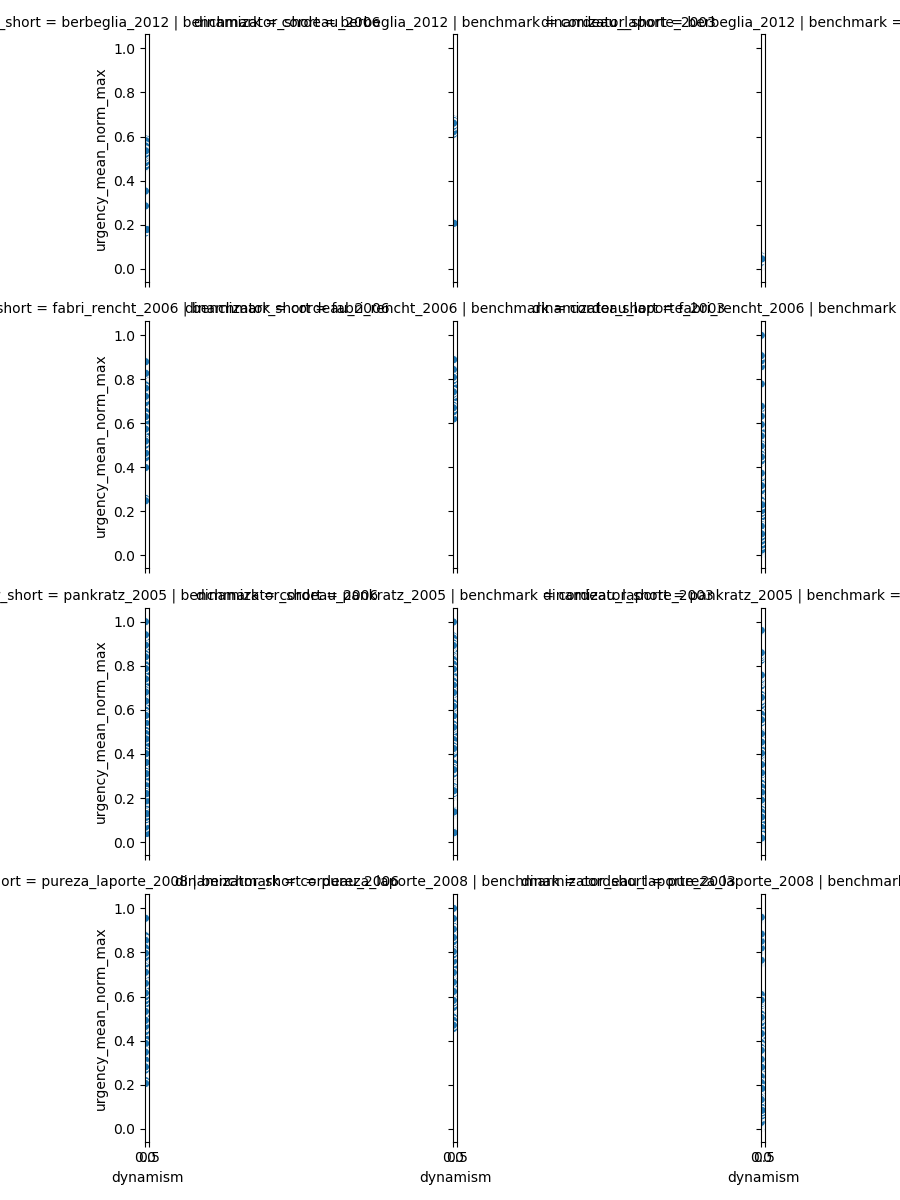
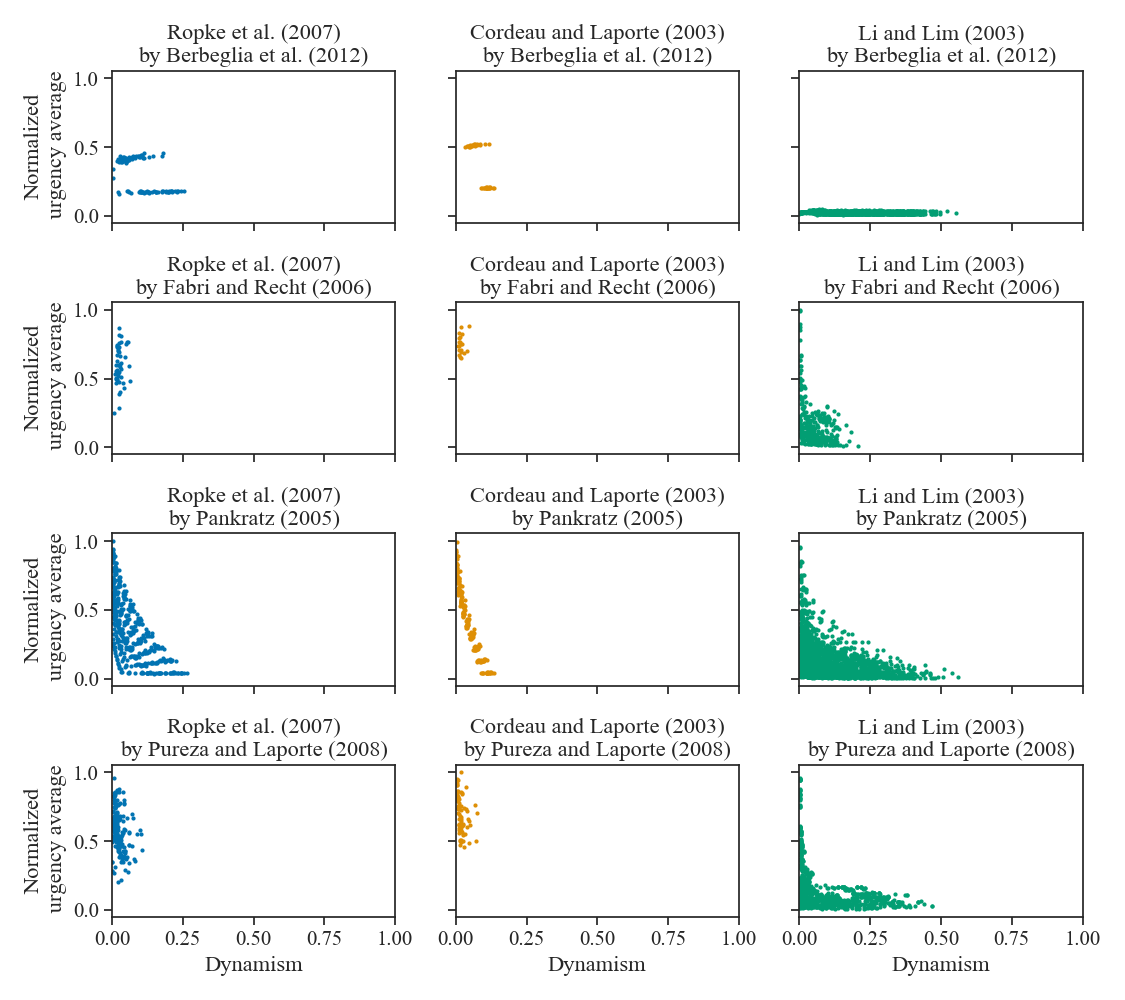
faz primeira versÃ£o das figuras

diff --git a/instances/transportes_2020/transportes_2020.py b/instances/transportes_2020/transportes_2020.py
@@ -4,6 +4,8 @@ import matplotlib.pyplot as plt
 import instances.analysis.dinamize_all as dinamize_all
 import instances.analysis.analyse as analyse
 
+sns.set(style='ticks', font="Times New Roman", font_scale=1.35)
+
 columns_to_group = ['problem', 'benchmark', 'instance', 'dinamizator']
 df_static_requests = (
     pd.read_pickle('./instances/analysis/df_static_requests.zip')
@@ -29,16 +31,68 @@ df_dyn_urg_ins = (
     )
     .groupby(['problem', 'benchmark', 'dinamizator',
               'instance']).max().reset_index()
+    .assign(
+        cite_benchmark=lambda x:
+        x.benchmark.map(
+             {'cordeau_2006': 'Ropke et al. (2007)',
+              'li_lim_2003': 'Li and Lim (2003)',
+              'cordeau_laporte_2003': 'Cordeau and Laporte (2003)'}
+        ),
+        cite_dinamizator=lambda x:
+        x.dinamizator_short.map(
+            {'berbeglia_2012': 'Berbeglia et al. (2012)',
+             'fabri_rencht_2006': 'Fabri and Recht (2006)',
+             'pankratz_2005': 'Pankratz (2005)',
+             'pureza_laporte_2008': 'Pureza and Laporte (2008)'}
+        )
+    )
 )
 
-g = sns.FacetGrid(df_dyn_urg_ins, col='benchmark', row='dinamizator_short',
-                  despine=False)
-g.map(sns.scatterplot, 'dynamism', 'urgency_mean_norm_max', 'benchmark')
+
+g = sns.FacetGrid(df_dyn_urg_ins,
+                  col='cite_benchmark',
+                  row='cite_dinamizator',
+                  hue='cite_benchmark',
+                  despine=False,
+                  palette='colorblind',
+                  xlim=(0, 1),
+                  height=2.5,
+                  aspect=1.5,
+                  )
+g.map(plt.scatter, 'dynamism', 'urgency_mean_norm_max', s=4)
+g.set_titles('{col_name}\nby {row_name}')
+g.set_xlabels('Dynamism')
+g.set_ylabels('Normalized\n urgency average')
+plt.tight_layout()
 plt.savefig('instances/transportes_2020/fig/urgency_x_dynamism.png')
 plt.close()
 
 
-g = sns.FacetGrid(df_dyn_urg_ins, col='benchmark', despine=False)
-g.map(sns.boxplot, 'dynamism', 'dinamizator_short')
+g = sns.FacetGrid(df_dyn_urg_ins,
+                  row='cite_benchmark',
+                  palette='colorblind',
+                  despine=False,
+                  xlim=(0, 1),
+                  height=2.5,
+                  aspect=2.5,
+                  )
+g.map(sns.boxplot, 'dynamism', 'cite_dinamizator')
+g.set_titles('{row_name}')
+g.set(ylabel=None)
+plt.tight_layout()
 plt.savefig('instances/transportes_2020/fig/dynamism_boxplot.png')
+plt.close()
+
+g = sns.boxplot(x='dynamism',
+                y='cite_dinamizator',
+                hue='cite_benchmark',
+                data=df_dyn_urg_ins,
+                palette='colorblind',
+                )
+g.set_xlabel('Dynamism')
+g.legend(title=None)
+g.set_ylabel(None)
+plt.xlim(0, 1)
+plt.tight_layout()
+plt.savefig('instances/transportes_2020/fig/dynamism_boxplot_2.png')
 plt.close()
